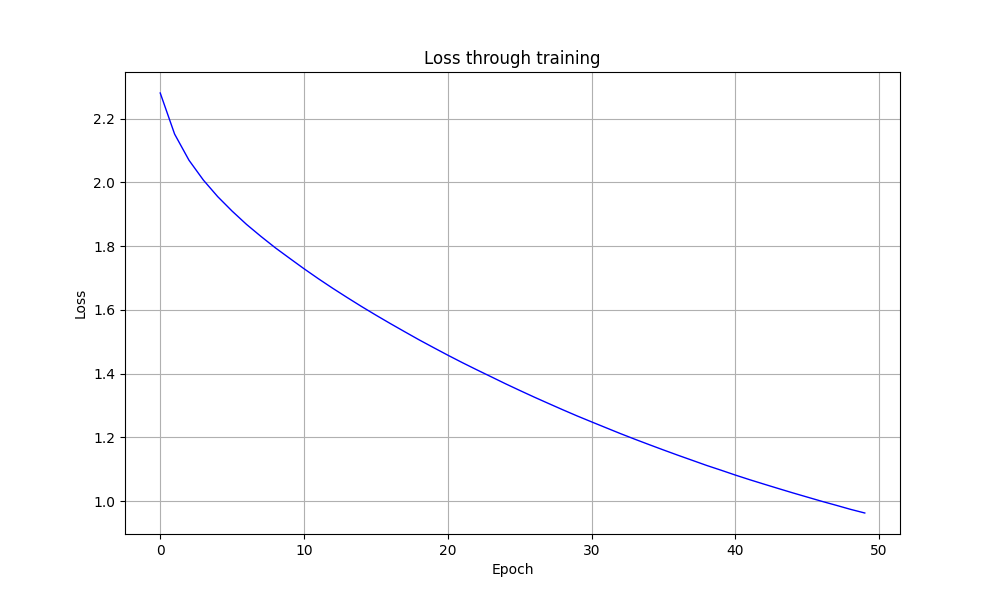
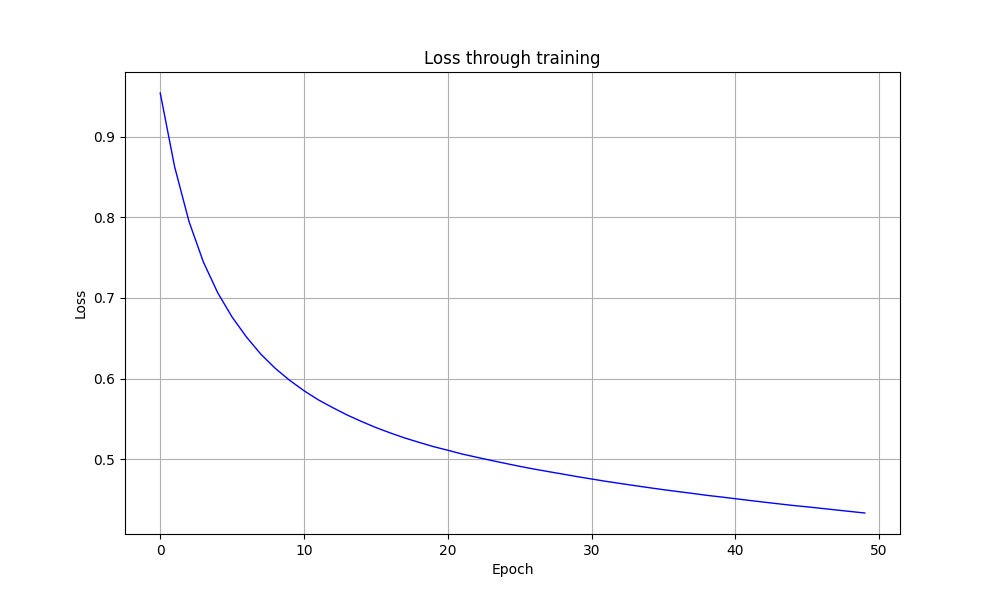
final results

diff --git a/Main.py b/Main.py
@@ -55,12 +55,8 @@ def main():
     # set up layers dimensions
     first = X_train.shape[0]
 
-    if first < 30:
-        lambda_l1_list = [1e-3, 5e-3]
-        lambda_l2_list = [0.01, 0.1, 0.5]
-    else:
-        lambda_l1_list = [0.5, 1]
-        lambda_l2_list = [0.1, 0.5, 4.5]
+    lambda_l1_list = [1e-3, 5e-3, 0.5, 1]
+    lambda_l2_list = [0.01, 0.1, 0.5, 4.5]
     layers_dims_list = [[first, 64, 64, 1], [first, 128, 64, 1], [first, 128, 128, 1], [first, 256, 128, 1], [first, 256, 256, 1]]
 
     parameters = cross_validation(X_train, Y_train, X_valid, Y_valid, layers_dims_list, lambda_l1_list, lambda_l2_list,
